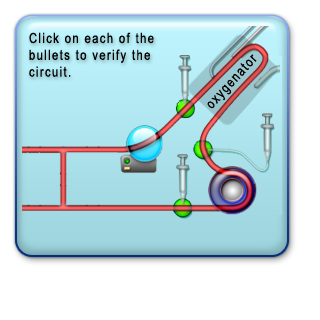
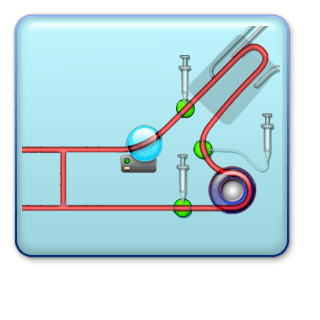
Add i18n label to tube [circuit change] component detail view.
git-svn-id: https://ecmojo.svn.sourceforge.net/svnroot/ecmojo@747 6adee215-725e-4b28-87c1-af44a2b16021

Changed region(s): [[0.0938, 0.0938, 0.5, 0.25], [0.625, 0.1562, 0.8125, 0.3438]]

diff --git a/trunk/app/src/main/java/edu/hawaii/jabsom/tri/ecmo/app/view/comp/TubeDetailPanel.java b/trunk/app/src/main/java/edu/hawaii/jabsom/tri/ecmo/app/view/comp/TubeDetailPanel.java
@@ -32,7 +32,7 @@ public class TubeDetailPanel extends DetailPanel implements Runnable {
 
   /** The detail image. */
   private Image detailImage = ImageLoader.getInstance().getImage(
-      Translator.getString("image.DetailTube[i18n]: conf/image/interface/game/Detail-Tube.png"));
+       "conf/image/interface/game/Detail-Tube.png");
   
   /** The info label. */
   private JLabel infoLabel;
@@ -64,7 +64,17 @@ public class TubeDetailPanel extends DetailPanel implements Runnable {
     // set layout and look
     setLayout(null);
     setOpaque(false);
-
+    
+    // Instruction label [i18n]
+    JLabel instructionLabel = new JLabel();
+    instructionLabel.setText(Translator.getString("label.TubeDetail[i18n]: "
+        + "<html>Click on each of the<br>bullets to verify the<br>circuit."));
+    instructionLabel.setFont(instructionLabel.getFont().deriveFont(Font.PLAIN, 12f));
+    instructionLabel.setForeground(Color.BLACK);
+    instructionLabel.setLocation(30, 18);
+    instructionLabel.setSize(140, 60);
+    add(instructionLabel);
+    
     Image changeCircuitNormalImage = ImageLoader.getInstance().getImage(
       "conf/image/interface/game/BtnLong.png");
     Image changeCircuitRolloverImage = ImageLoader.getInstance().getImage(
@@ -95,10 +105,10 @@ public class TubeDetailPanel extends DetailPanel implements Runnable {
     // add flash text
     infoLabel = new JLabel();
     infoLabel.setText(Translator.getString("label.LocOK[i18n]: Location OK!"));
-    infoLabel.setFont(infoLabel.getFont().deriveFont(Font.BOLD, 16f));
+    infoLabel.setFont(infoLabel.getFont().deriveFont(Font.BOLD, 14f));
     infoLabel.setForeground(new Color(0x00000000, true));
     infoLabel.setLocation(30, 90);
-    infoLabel.setSize(120, 20);
+    infoLabel.setSize(140, 20);
     add(infoLabel);
     
     // add the bullets (top left -> top right -> bottom right -> bottom left)
